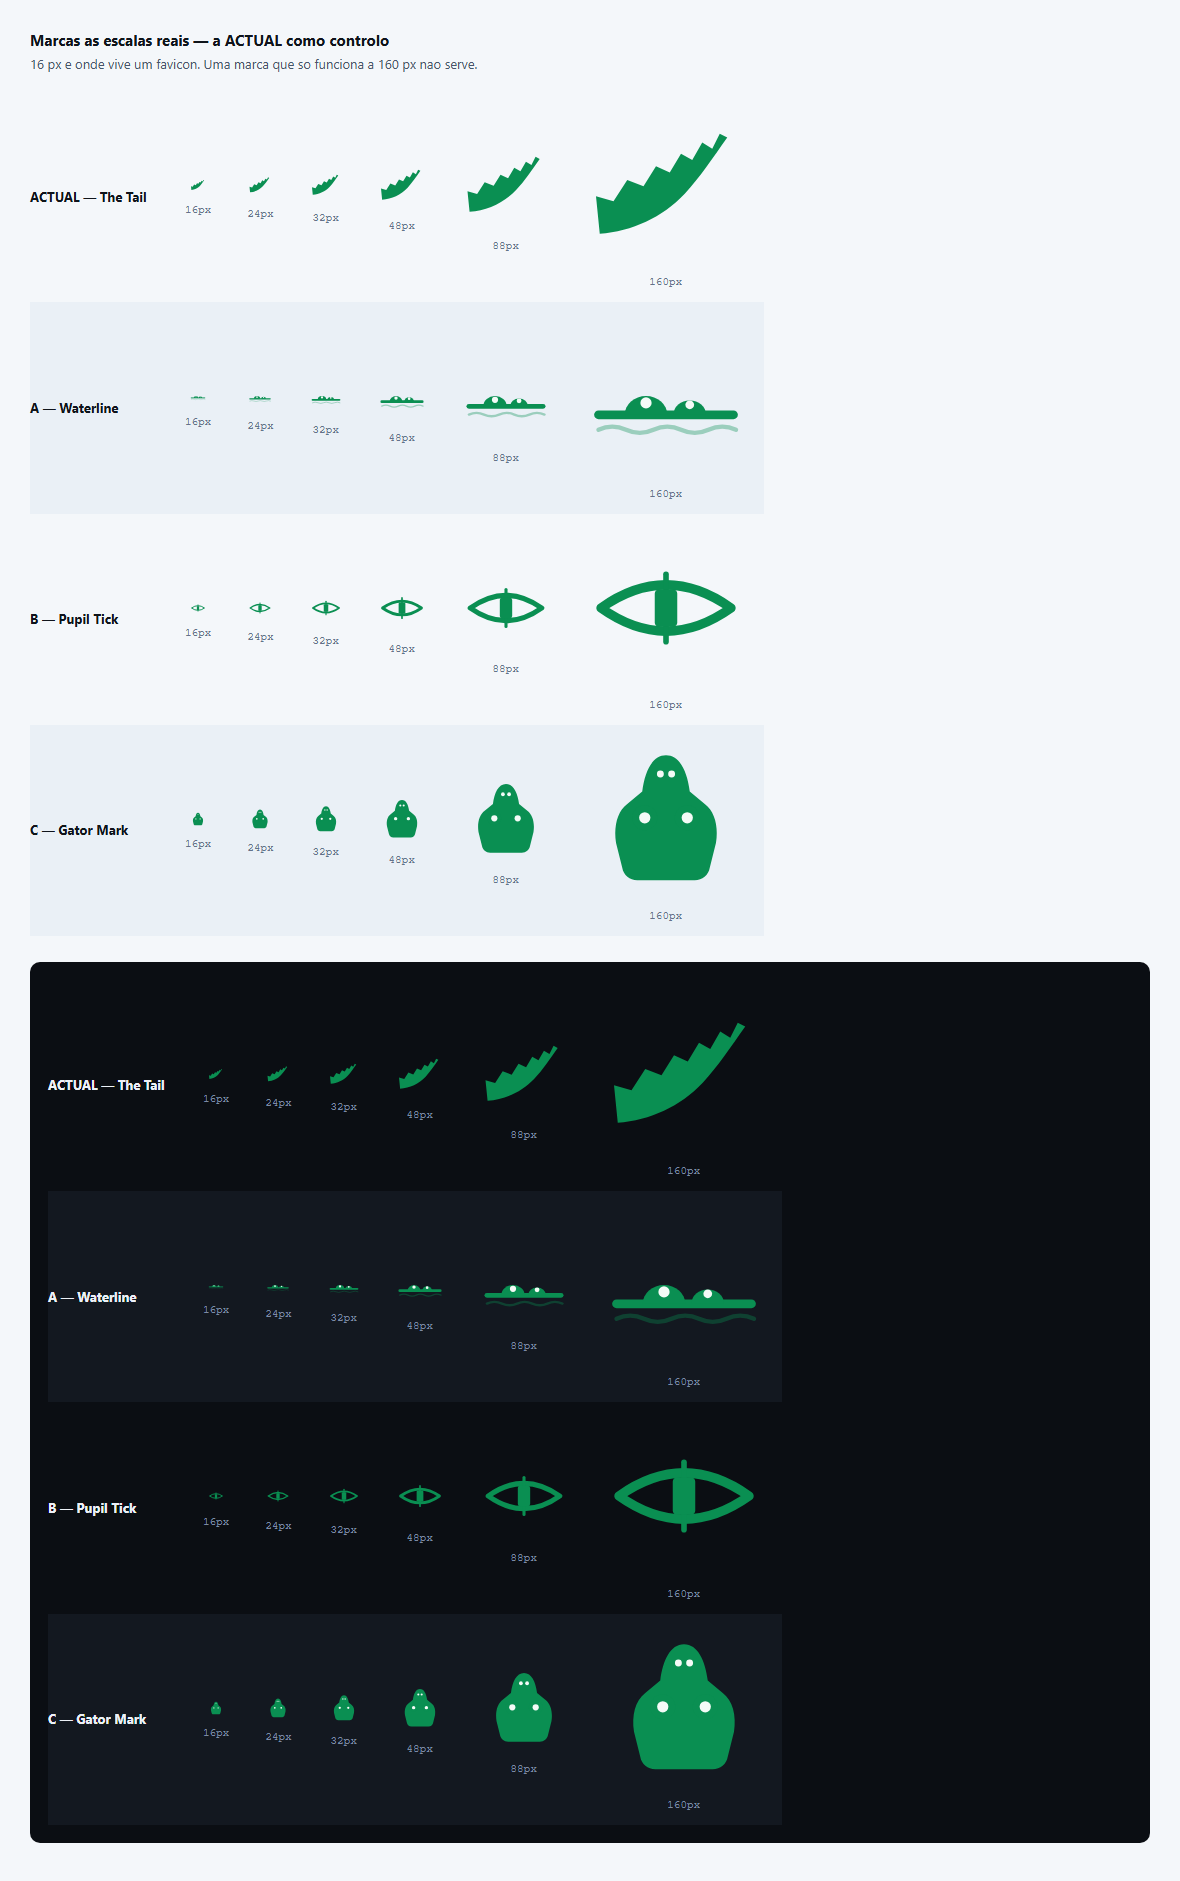
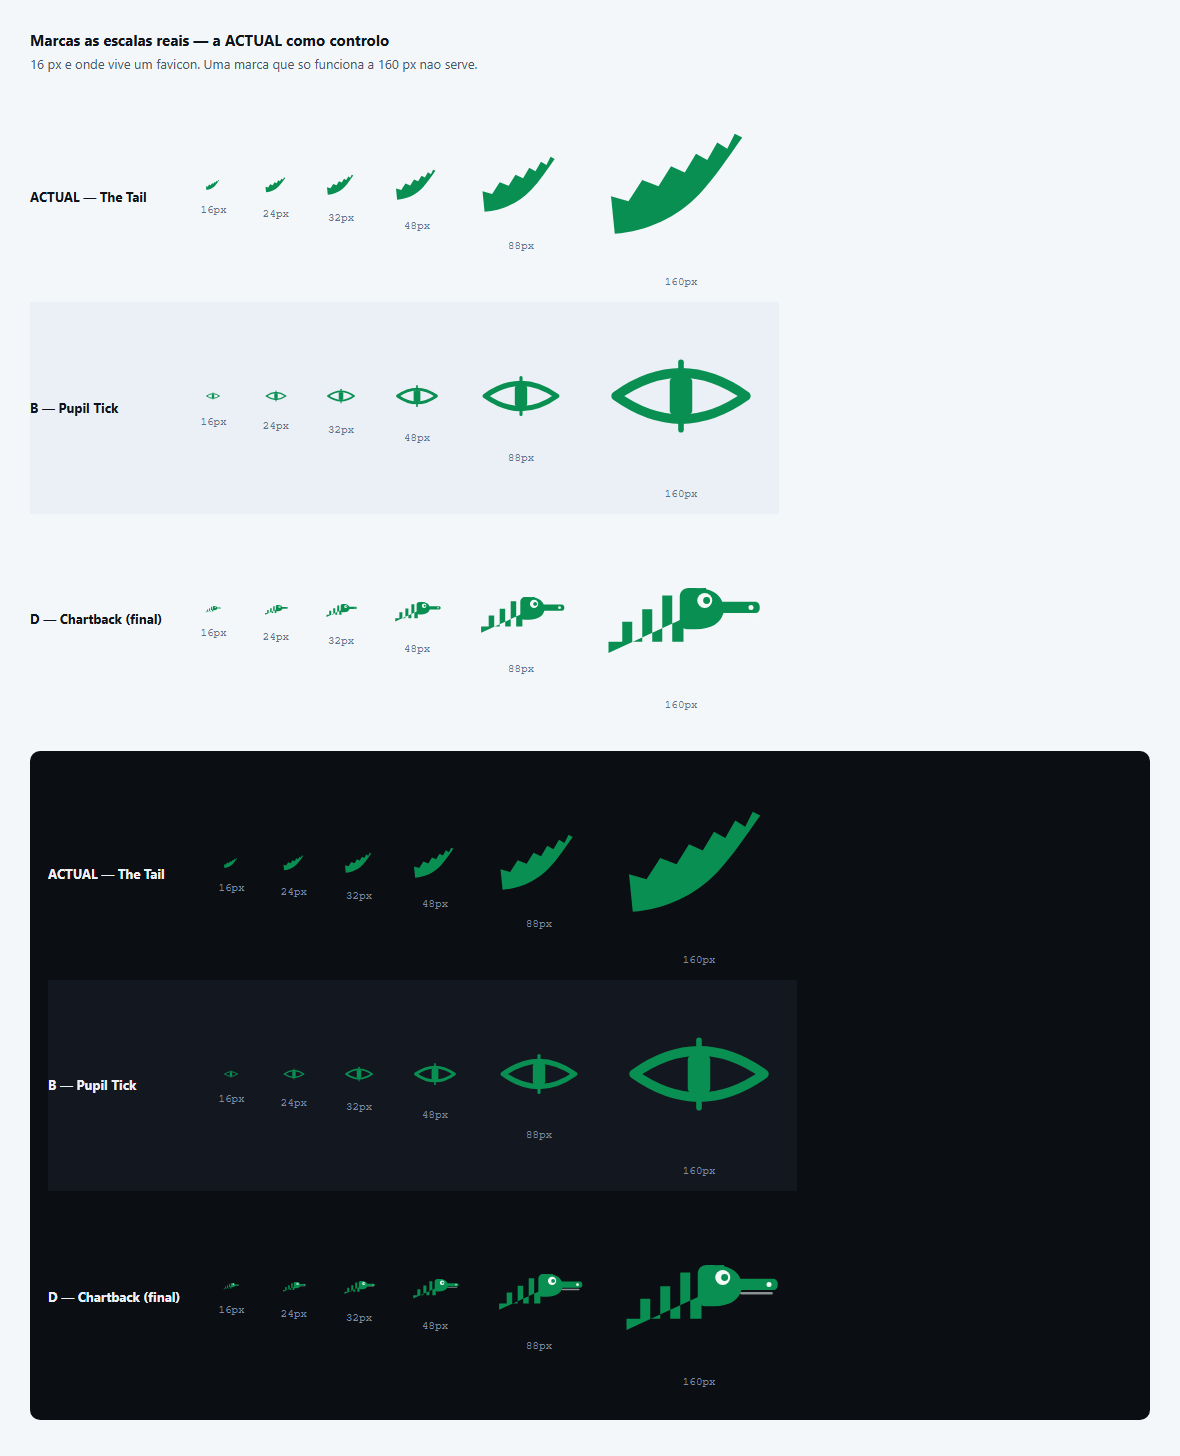
O jacare financeiro: o dorso do jacare E o grafico
Pedido: logotipo novo, com marca, vivo, jacare financeiro, criativo.

D - Chartback e a recomendacao. UMA ideia: as placas dorsais de um jacare ja tem
forma de grafico de barras. Aqui sobem, e a subida E o grafico -- nao e um jacare
ao lado de um grafico, e o dorso do jacare a ser o grafico. Vivo: olha para a
direita, para onde o grafico vai. Olho redondo e nunca em fenda, porque um olho de
predador contradiz um produto que recusa cacar.

Precisou de segunda versao, e a razao vale a pena guardar: a primeira tinha o
focinho curto e lia-se como LAGARTA. O focinho de um jacare e longo, baixo e
achatado, e e essa proporcao que identifica a especie a distancia.

Tres das cinco direccoes FALHARAM e ficam escritas como falharam: a Gator Mark
le-se como um vulto, a Uptick Gator como galoes de patente, a Snout Candle como um
robo. So se soube a renderizar aos tamanhos reais -- descritas por palavras, as
tres pareciam boas.

E o que fica por decidir, dito sem enfeite: a D e mais ocupada do que a Tail aos
16 px. A partir dos 24 px ganha claramente; a 16 px e uma mancha com forma
enquanto a Tail e um traco limpo. Ou se usa a D em todo o lado aceitando isso, ou
se usa D grande e Tail reduzida. Nao decidir a olhar para o SVG a 512 px, que foi
como a marca anterior foi escolhida antes de cair.

diff --git a/scripts/render_brand_concepts.py b/scripts/render_brand_concepts.py
@@ -17,9 +17,8 @@ TAMANHOS = [16, 24, 32, 48, 88, 160]
 
 MARCAS = [
     ("ACTUAL — The Tail", RAIZ / "app/assets/logo.svg"),
-    ("A — Waterline", RAIZ / "app/assets/concepts/waterline.svg"),
     ("B — Pupil Tick", RAIZ / "app/assets/concepts/pupil-tick.svg"),
-    ("C — Gator Mark", RAIZ / "app/assets/concepts/gator-mark.svg"),
+    ("D — Chartback (final)", RAIZ / "app/assets/concepts/chartback.svg"),
 ]
 
 linhas = []

diff --git a/app/assets/concepts/README.md b/app/assets/concepts/README.md
@@ -1,51 +1,44 @@
-# Três direcções novas de marca — e o que a medição disse
+# Direcções de marca — o jacaré financeiro
 
-> Geradas a 2026-08-06 a pedido do aluno: *"algo que dê nas vistas, com olhos, ou o jacaré, ou
-> uma mascote — tipo uma marca registada"*, e, no mesmo dia, *"a Stare era má, quero coisa
-> **nova**"*. Não são revivalismos: são três ideias novas, uma ideia cada.
->
-> Regenerar a folha de comparação: `python scripts/render_brand_concepts.py`
+> Pedido a 2026-08-06: *"logótipo novo, com marca, vivo, jacaré — jacaré financeiro. Sê criativo."*
+> Regenerar a folha: `python scripts/render_brand_concepts.py`
 
-## O teste, que é o mesmo de sempre
+## A recomendação: **D — Chartback**
 
-[`docs/design/brand.md`](../../../docs/design/brand.md): legível a **16 px** com a silhueta
-reconhecível · funciona a preto e branco · funciona em fundo claro **e** escuro · **uma ideia
-só** · não contradiz a postura do produto.
+**A ideia, e é uma só:** as **placas dorsais** de um jacaré já têm a forma de um gráfico de
+barras. Aqui sobem, e essa subida **é** o gráfico. Não é um jacaré ao lado de um gráfico — o
+dorso do jacaré é o gráfico. É a fusão mais directa que existe entre o animal e o domínio.
 
-**16 px é onde vive um favicon**, e é o teste que a marca de 2026-07 falhou. Por isso a folha
-[`comparacao.png`](comparacao.png) mostra 16/24/32/48/88/160 px, nos dois fundos, **com a marca
-actual como controlo** — sem controlo não se sabe se o novo é melhor ou apenas diferente.
+**Vivo:** olha para a direita, para onde o gráfico vai. Olho **redondo**, nunca em fenda — um
+olho de predador contradiz um produto que recusa caçar seja quem for, e foi uma das razões pelas
+quais a marca de 2026-07 caiu.
 
-## Veredicto, a olhar para o render
+**Foi preciso uma segunda versão.** A primeira tinha o focinho curto e lia-se como **lagarta**.
+O focinho de um jacaré é **longo, baixo e achatado**, e é essa proporção que identifica a espécie
+à distância. Alongado, passa a ler-se jacaré. Fica registado porque a diferença entre as duas
+versões é toda ela essa proporção.
 
-| | ideia | 16 px | grande | veredicto |
-|---|---|---|---|---|
-| **A — Waterline** | o jacaré submerso: só os olhos acima da linha de água, que é também a linha do mercado | ❌ colapsa numa mancha horizontal; os olhos desaparecem | ✅ **a melhor das três** — lê-se imediatamente | **não serve como logótipo; serve como imagem grande** |
-| **B — Pupil Tick** | o mercado dentro do olho: a pupila é uma barra de preço | ✅ **a única que sobrevive** — lê-se olho com marca dentro | ✅ limpa e distinta | **a única candidata a logótipo** |
-| **C — Gator Mark** | a cabeça do jacaré vista de cima, como marca | ❌ borrão | ❌ **falhou**: não se lê como jacaré, lê-se como um vulto com dois olhos | **descartar ou redesenhar de raiz** |
+## As que caíram, e porquê
 
-**O C falhou e fica registado como falhou.** A geometria do focinho não sobrevive à simplificação;
-o que sai é uma forma arredondada sem espécie. Não é um problema de tamanho, é de desenho.
+| | ideia | veredicto |
+|---|---|---|
+| **A — Waterline** | olhos acima da linha de água | ✅ bonita em grande · ❌ **colapsa aos 16 px** — os olhos desaparecem |
+| **B — Pupil Tick** | a pupila é uma barra de preço | ✅ **a que melhor sobrevive aos 16 px** · ❌ abstracta: não é um jacaré |
+| **C — Gator Mark** | cabeça vista de cima | ❌ **falhou** — lê-se como um vulto, não como jacaré |
+| **E — Uptick Gator** | a boca aberta é um *tick* de subida | ❌ **falhou** — lê-se como galões de patente, não como maxilas |
+| **F — Snout Candle** | o focinho é um *candlestick* | ❌ **falhou** — lê-se como um robô ou um insecto |
 
-## A conclusão que interessa, e que não é a esperada
+Três das cinco falharam, e ficam escritas como falharam. `pupil-tick.svg` e `waterline.svg`
+ficam no repositório porque cada uma ganha numa dimensão em que a D perde; `gator-mark`,
+`uptick-gator` e `snout-candle` ficam como registo da comparação.
 
-**Nenhuma das três bate claramente a marca actual aos 16 px.** A "Tail" a 16 px continua a ser um
-traço limpo; a A e a C são piores lá, e a B é comparável e não obviamente melhor.
+## O que ainda falta decidir
 
-Isto empurra para a separação que já estava escrita no backlog e que o render confirma:
+**A D é mais ocupada do que a Tail aos 16 px.** A partir dos 24 px ganha claramente; a 16 px é
+uma mancha com forma, e a Tail é um traço limpo. As duas leituras honestas:
 
-- **Logótipo** (16 px, favicon, cabeçalho): ou fica a **Tail**, ou passa a **B**. São as duas
-  únicas que passam o teste.
-- **Mascote / imagem grande** (avatar do canal, capa dos slides, guia, ecrã inicial): é aqui que
-  vive o "dar nas vistas" com olhos. A **A** é forte neste papel e não paga o custo dos 16 px.
+- **usar a D em todo o lado** e aceitar que o favicon é uma silhueta, não um desenho legível;
+- **D grande + Tail a 16 px**, que é o que muitas marcas fazem (marca completa e marca reduzida).
 
-Ou seja: provavelmente não é preciso escolher entre marca e mascote — é preciso parar de lhes
-exigir a mesma coisa.
-
-## Próximo passo, se o aluno quiser continuar
-
-1. Dizer qual das duas leituras prefere para o logótipo (manter a Tail, ou passar à B).
-2. Se quiser a A como mascote, ela precisa de tratamento a sério em tamanho grande: mais
-   detalhe, ondulação melhor, talvez cor secundária. Aos 160 px já aguenta; aos 512 px de um
-   avatar de canal precisa de mais.
-3. O C só volta se for redesenhado de raiz, e não vale a pena sem uma ideia melhor para o focinho.
+Isto é decisão do aluno. O que **não** deve acontecer é escolher a olhar para o SVG a 512 px —
+foi assim que a marca anterior foi escolhida e depois caiu.
